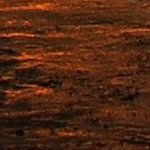
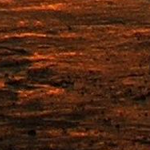
WIP

diff --git a/generate.go b/generate.go
@@ -32,7 +32,7 @@ func main() {
 			cmd.Run()
 
 			// Crop the image
-			x := ((i+1) * 72.0) + (i * 150.0)
+			x := ((i+1) * 68.0) + (i * 150.0)
 			y := 190.0 + (j * 150.0) + (j * 172.0)
 			cropArg := fmt.Sprintf("crop=150:150:%d:%d", x, y)
 			cmd = exec.Command("ffmpeg", "-i", "wallpaper_scaled.png", "-vf", cropArg, fileName)
